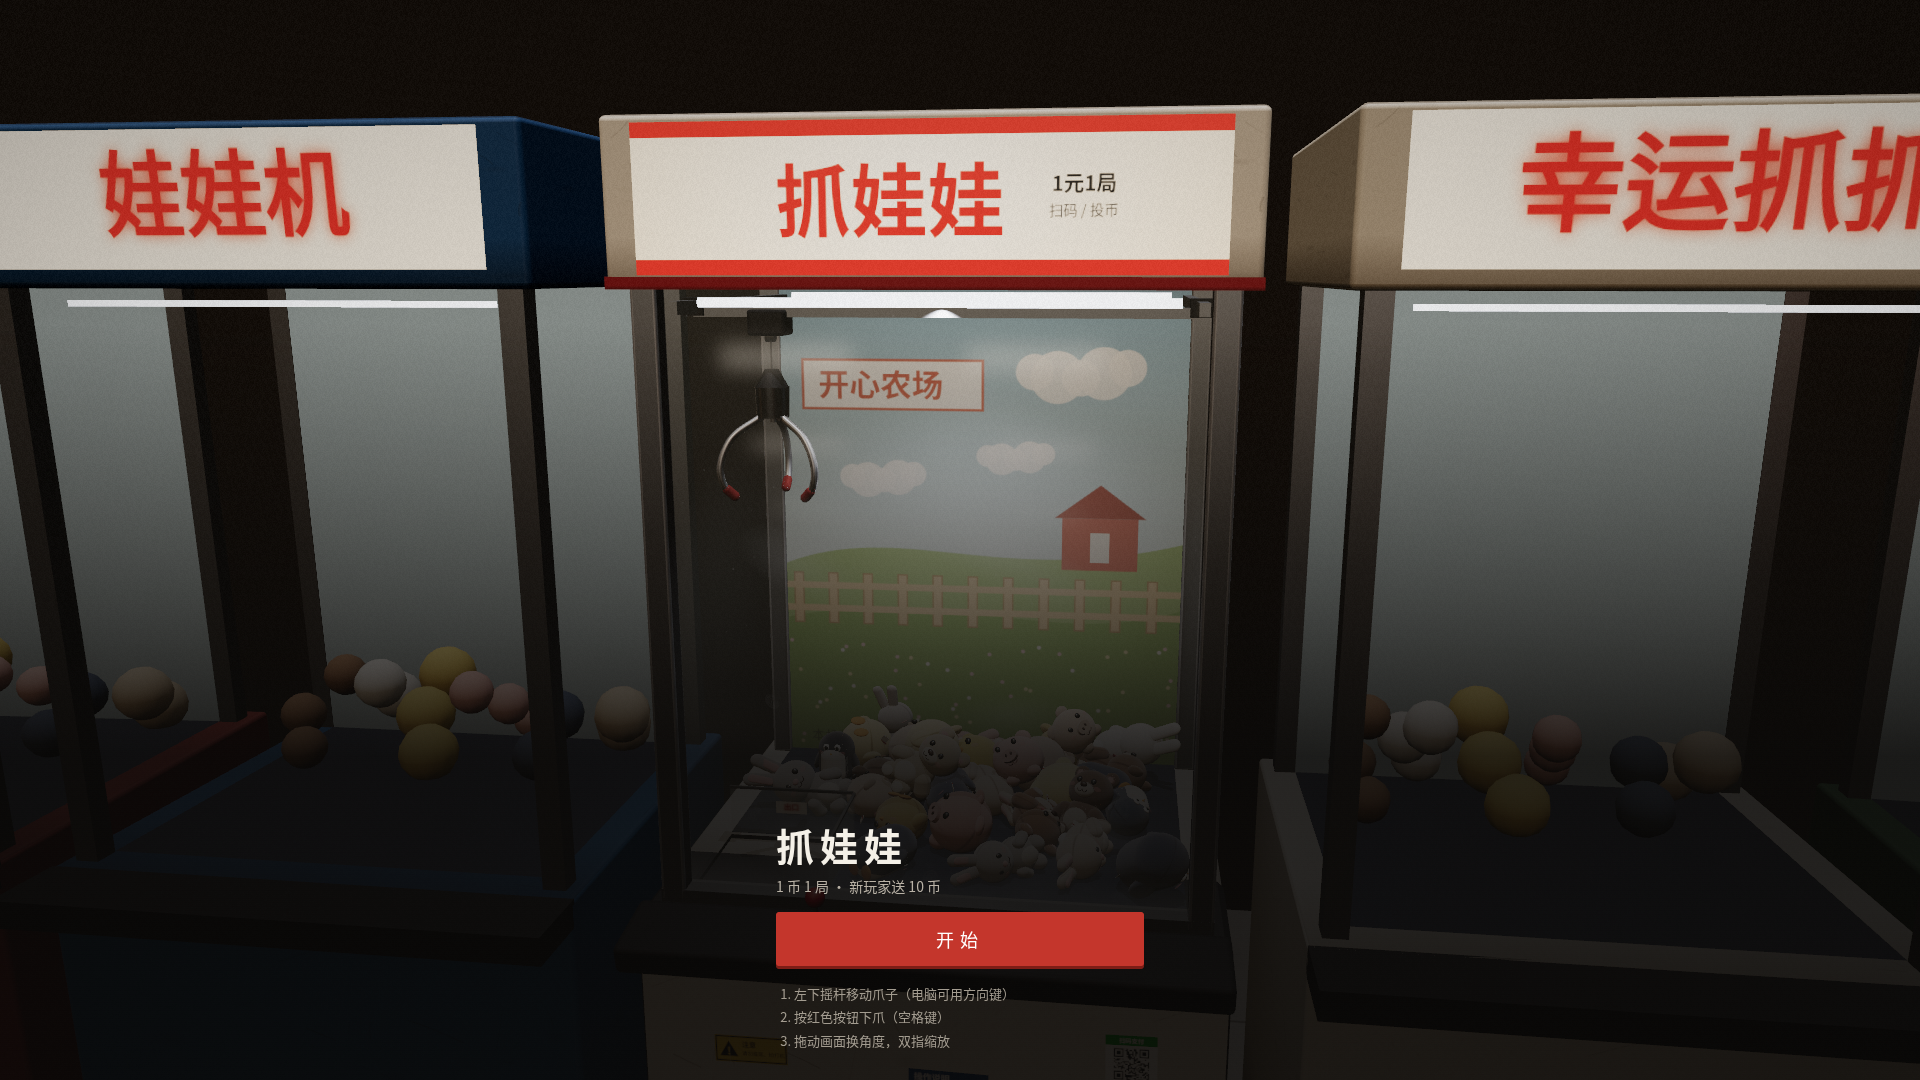
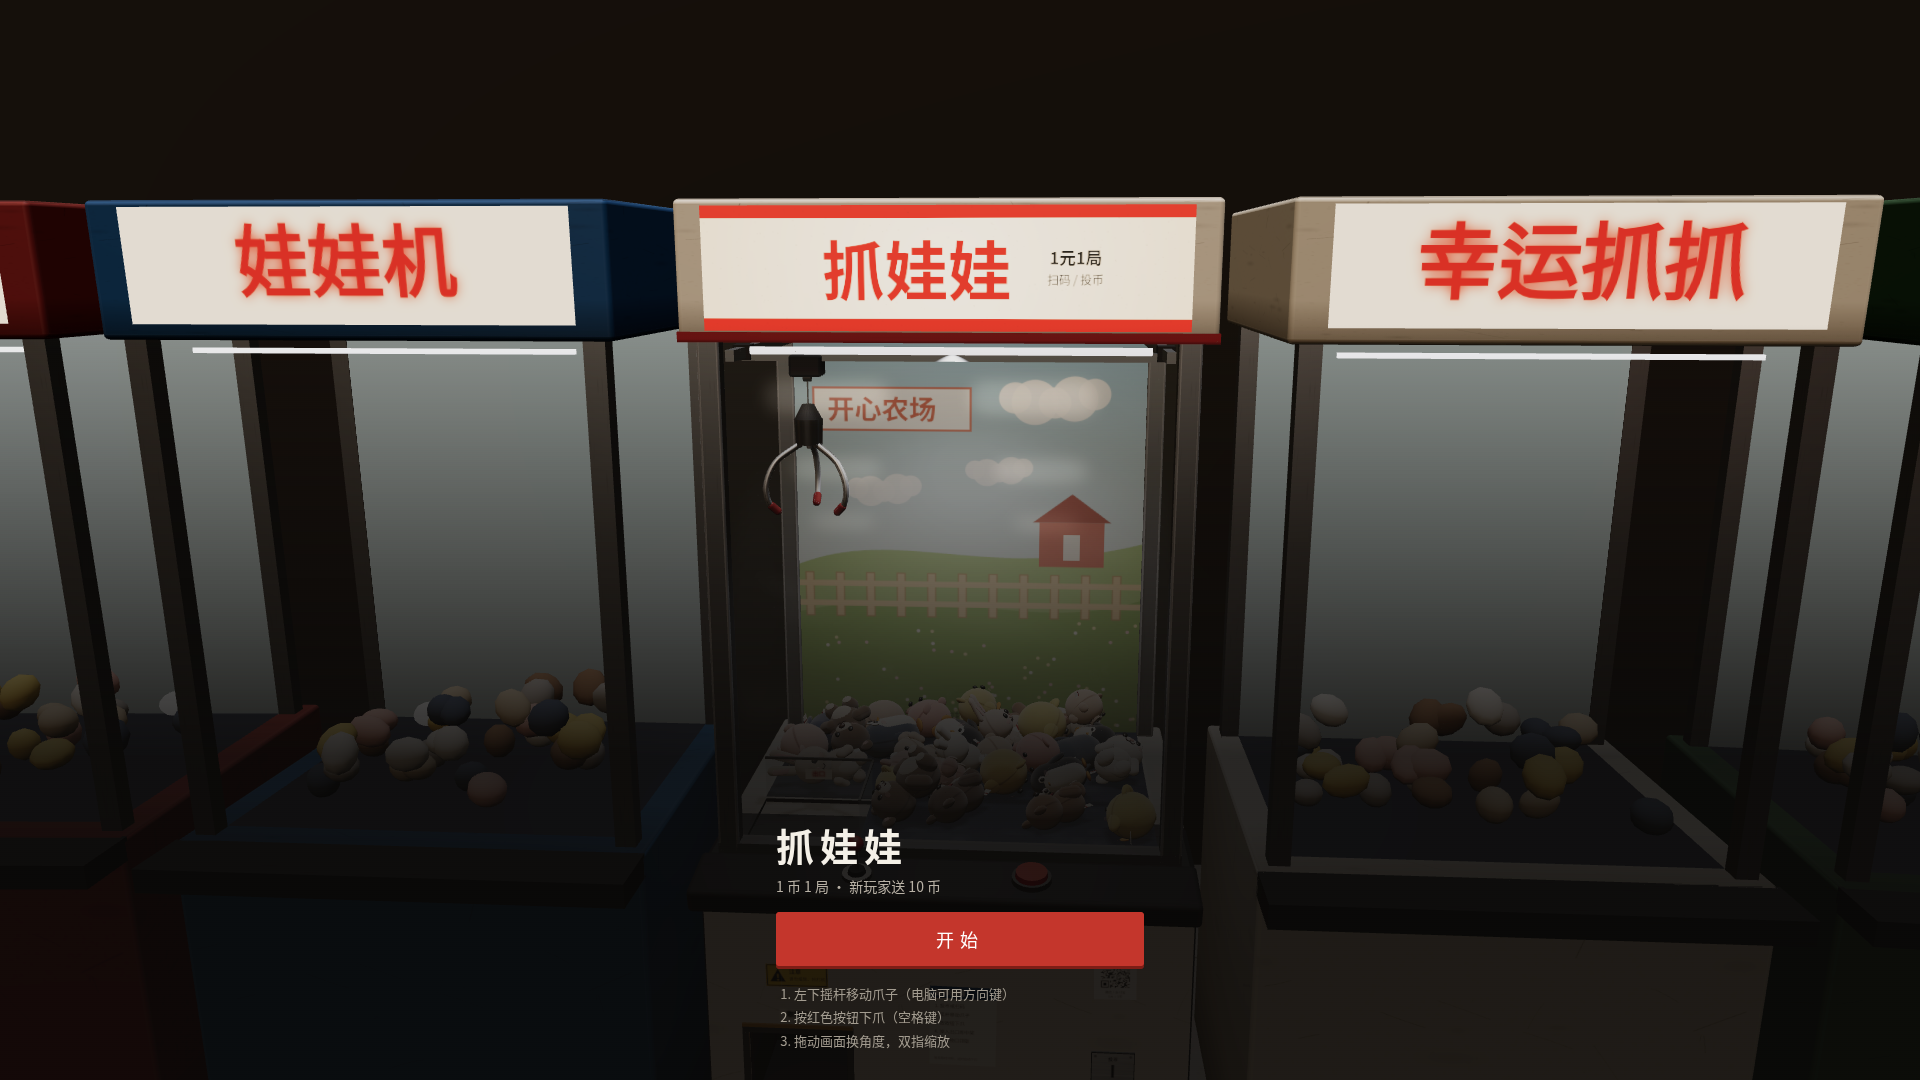
README: desktop/mobile notes

diff --git a/README.md b/README.md
@@ -10,6 +10,9 @@ A mobile-first 3D claw machine that runs in the browser. It aims to look like a 
 - **UI:** a 7-segment LED readout for coins, time and prizes, a physical joystick, a coin-slot button and a big red push button. When you win, the toy drops into the pickup window with a thud, the door lamp blinks, the camera dips to show it and a plain card names the prize.
 - **Sound:** synthesized mechanical sounds: coin clinks, motor whine with gear noise, the solenoid clunk, the chute thud and the machine's two-tone chime, over faint room tone. There is no music.
 
+- **Desktop & mobile:** portrait phones get an LED board on top and a control deck at the bottom. Landscape phones and desktop (16:9 to ultrawide) get control columns either side of the machine, which sits in a row of neighbouring cabinets. The game respects safe-area insets and resizes on window or orientation changes. Page scroll, pinch zoom, pull-to-refresh and long-press menus are blocked. Audio unlocks on the first tap. Low-end devices start on 低 quality; desktop starts on 高 with 4K shadows and MSAA.
+- **Input:** touch or mouse joystick (click and hold), and drag or wheel to move the camera. Keyboard: WASD/arrows move, Space drops, Enter/C inserts a coin, V or 1/2/3 switch views, M mutes, F toggles fullscreen, Esc closes. Gamepad: stick or d-pad moves, A drops, X/Start inserts a coin, Y changes the view.
+
 ## Dev
 ```
 npm install
@@ -18,4 +21,4 @@ npm run build      # static build -> dist/ (base /claw-machine/; VITE_BASE=./ fo
 npm test           # headless physics simulation of grab rounds
 ```
 
-Controls: the joystick or arrow keys/WASD move the claw, and the red button or Space drops it. Drag to change the angle, pinch to zoom, and use the camera button to switch views.
+
